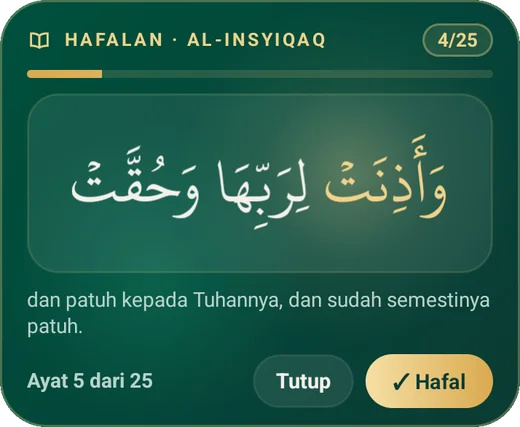
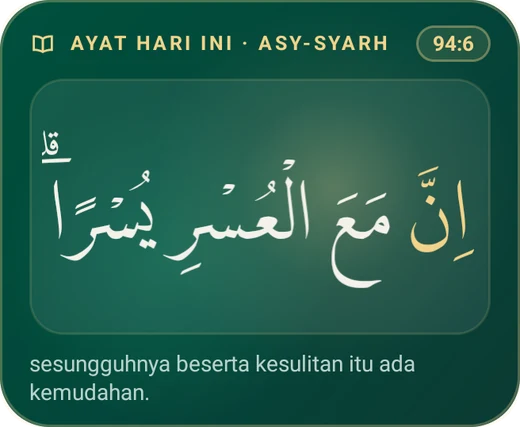
Rilis 1.18.0: muraja'ah, cadangan otomatis, pencarian, zakat mal, lencana
- Versi 1.18.0+29 dan catatan rilis gabungan M3-M6
- Pratinjau widget Ayat Harian asli (menggantikan placeholder)
- Mode gelap (M7) dihapus dari roadmap atas keputusan pengguna; semua fase
  M0-M6 selesai

diff --git a/docs/ROADMAP.md b/docs/ROADMAP.md
@@ -1,11 +1,12 @@
-# Peta Jalan Bilal+ (M0 - M7)
+# Peta Jalan Bilal+ (M0 - M6)
 
 Rencana 11 fitur berikutnya, dikerjakan **per fase (milestone)**. Satu fase
 selesai (diuji, dicek di emulator, di-commit, diberi catatan rilis & tag)
 sebelum fase berikutnya dimulai.
 
-> Status per **31 Oktober 2026** · versi saat ini **1.15.0+26** · skema
-> database **v9** · baseline analyzer **57 isu** · semua tes lulus.
+> Status per **1 November 2026** · **semua fase M0-M6 selesai** · versi
+> **1.18.0+29** · skema database **v11** · baseline analyzer **56 isu** ·
+> semua tes lulus. **Mode gelap (M7) dibatalkan** atas keputusan pengguna.
 
 ## Ringkasan & urutan
 
@@ -18,11 +19,10 @@ berisiko/menyeluruh di akhir.
 | **M0** | Fondasi bersama | infrastruktur pengingat, pengaturan, deep link | kecil | digabung ke M1 |
 | **M1** | Paket cepat | #1 Muhasabah malam · #6 Waktu penting · #8 Ayat harian | kecil-sedang | 1.16.0 |
 | **M2** | Kebiasaan & kewajiban | #3 Pengingat sunnah hijriah · #4 Hutang sholat | sedang | 1.17.0 |
-| **M3** | Hafalan lanjutan | #2 Muraja'ah (pengulangan terjadwal) | sedang | 1.18.0 |
-| **M4** | Keamanan data | #5 Cadangan otomatis | sedang (ada spike) | 1.18.x / 1.19.0 |
-| **M5** | Cari & hitung | #9 Pencarian global · #11 Kalkulator zakat mal | sedang | 1.19.0 |
-| **M6** | Motivasi | #7 Lencana & pencapaian | sedang | 1.20.0 |
-| **M7** | Tampilan | #10 Mode gelap | besar | 1.21.0 |
+| **M3** | Hafalan lanjutan | #2 Muraja'ah (pengulangan terjadwal) | sedang | 1.18.0 (digabung) |
+| **M4** | Keamanan data | #5 Cadangan otomatis | sedang (ada spike) | 1.18.0 (digabung) |
+| **M5** | Cari & hitung | #9 Pencarian global · #11 Kalkulator zakat mal | sedang | 1.18.0 (digabung) |
+| **M6** | Motivasi | #7 Lencana & pencapaian | sedang | 1.18.0 (digabung) |
 
 Nomor versi hanya usulan; ditetapkan saat commit mengikuti aturan versi
 (angka terakhir untuk perbaikan & fitur kecil, angka tengah bila banyak
@@ -366,27 +366,6 @@ atau perbandingan; teks mengingatkan niat. Diverifikasi di emulator.
 
 ---
 
-## M7 - Mode gelap (#10) → usulan 1.21.0
-
-**Fase terbesar & paling menyeluruh** - banyak warna ditulis langsung
-(`Color(0xFF...)`) di hampir semua halaman.
-
-- [ ] **Desain token warna** (`ThemeExtension`): latar, kartu, teks, garis,
-      aksen; pemetaan dari warna krem/amber saat ini.
-- [ ] **Migrasi bertahap per area** (tiap area diuji sendiri): komponen
-      bersama → Beranda → Ibadah → Laporan → Qur'an (mushaf tetap tema
-      kertas bila dipilih) → sisa halaman.
-- [ ] Pilihan **Ikuti sistem / Terang / Gelap** di Pengaturan.
-- [ ] Widget layar utama sudah gelap-hijau; kartu jadwal (langit) tidak
-      berubah.
-- [ ] Ekspor laporan **tetap latar krem** (gambar/PDF dibaca di mana pun).
-- [ ] Tes: tangkapan golden/visual untuk halaman utama di dua tema.
-
-**Keputusan:** warna mushaf dalam mode gelap (tema kertas vs gelap), dan
-apakah fase ini dipecah jadi **M7a/M7b** (komponen+Beranda+Ibadah dulu).
-
----
-
 ## Backlog / tidak dijadwalkan
 
 - **Pola tidur untuk ibadah.** Konsep: catat jam tidur/bangun & qailulah,
@@ -408,18 +387,20 @@ apakah fase ini dipecah jadi **M7a/M7b** (komponen+Beranda+Ibadah dulu).
 | Penjadwalan adzan terganggu refaktor (M0) | tes menjaga perilaku lama; uji di HP asli sebelum rilis |
 | Perhitungan waktu (sepertiga malam, Dhuha) beda di lintang tinggi | uji beberapa lokasi; tampilkan "tidak tersedia" bila malam tak wajar |
 | Dalil keliru | verifikasi tiap nomor & matan ke kitab di aplikasi; ragu → tidak ditulis |
-| Mode gelap menyentuh semua layar | fase terakhir, bertahap, dengan tes visual |
 | APK membesar (sudah +4 MB karena paket PDF) | pantau ukuran tiap rilis; hindari paket baru bila tidak perlu |
 
 ## Riwayat fase
 
 | Fase | Status | Rilis | Tanggal |
 |---|---|---|---|
-| M0 Fondasi | selesai (belum dirilis) | 1.16.0 | 2026-10-31 |
-| M1 Paket cepat | selesai (belum dirilis) | 1.16.0 | 2026-10-31 |
-| M2 Kebiasaan & kewajiban | selesai (belum dirilis) | 1.17.0 | 2026-11-01 |
-| M3 Hafalan lanjutan | selesai (belum dirilis) | - | 2026-11-01 |
-| M4 Keamanan data | selesai (belum dirilis) | - | 2026-11-01 |
-| M5 Cari & hitung | selesai (belum dirilis) | - | 2026-11-01 |
-| M6 Lencana | selesai (belum dirilis) | - | 2026-11-01 |
-| M7 Mode gelap | belum | - | - |
+| M0 Fondasi | dirilis | 1.16.0 | 2026-10-31 |
+| M1 Paket cepat | dirilis | 1.16.0 | 2026-10-31 |
+| M2 Kebiasaan & kewajiban | dirilis | 1.17.0 | 2026-11-01 |
+| M3 Hafalan lanjutan | dirilis | 1.18.0 | 2026-11-01 |
+| M4 Keamanan data | dirilis | 1.18.0 | 2026-11-01 |
+| M5 Cari & hitung | dirilis | 1.18.0 | 2026-11-01 |
+| M6 Lencana | dirilis | 1.18.0 | 2026-11-01 |
+| ~~M7 Mode gelap~~ | dibatalkan (keputusan pengguna) | - | 2026-11-01 |
+
+"Dirilis" = sudah di-commit, diberi catatan rilis & tag; unggah ke toko
+dilakukan manual lewat `tool/release.sh` / `docs/RELEASING.md`.

diff --git a/CHANGELOG.md b/CHANGELOG.md
@@ -4,6 +4,48 @@ Aturan nomor versi: angka terakhir untuk perbaikan & fitur kecil, angka
 tengah untuk banyak fitur baru sekaligus, angka pertama hanya bila perlu
 pembaruan wajib. Angka di belakang `+` adalah nomor build (selalu naik).
 
+## 1.18.0 (build 29) · 1 November 2026
+
+**Muraja'ah hafalan**
+- Hafalan yang sudah kamu tandai diulang berjarak: **1, 3, 7, 14, lalu 30
+  hari**. Ayat berurutan dikelompokkan otomatis menjadi unit (maks. 10
+  ayat). Nilai tiap unit **Lancar / Ragu / Lupa** - yang ragu atau lupa
+  muncul lebih cepat.
+- Kartu **Muraja'ah hari ini** di menu Hafalan, sesi mengulang (ayat
+  disembunyikan dulu, lalu diperiksa), dan **kuis sambung ayat** dari
+  hafalanmu.
+- Pengingat muraja'ah (mati bawaan), jumlahnya tampil di widget Hafalan, dan
+  laporan harian mengingatkan bila ada yang jatuh tempo.
+
+**Cadangan otomatis**
+- Pilih folder (mis. Documents) di halaman Cadangan Data: aplikasi
+  mencadangkan sendiri **tiap pekan** saat dibuka dan menyimpan 5 salinan
+  terakhir. Tetap ada walau aplikasi dihapus, tanpa akun.
+- **Pulihkan dari folder**: pilih salinan dari daftar. Bila izin folder
+  hilang atau penyimpanan gagal, muncul pesan yang jelas.
+
+**Cari di semua tempat**
+- Bilah **Cari** di Beranda (dan menu Lainnya): satu kolom untuk Al-Qur'an,
+  hadits, do'a, dan Asmaul Husna - hasil dikelompokkan, kata yang dicari
+  disorot, ketuk untuk membuka tempat aslinya. Bisa juga mengetik rujukan
+  seperti `2:255`. Riwayat pencarian hanya di perangkatmu.
+
+**Zakat mal & penghasilan**
+- Kalkulator baru (menu Lainnya -> Zakat Mal): nisab 85 gram emas, tarif
+  2,5%, zakat mal dan zakat penghasilan, harga emas diisi sendiri. Hasil
+  bisa dibagikan sebagai gambar. Disertai dalil dan catatan bahwa ini bukan
+  fatwa.
+
+**Pencapaian**
+- 12 **lencana** yang dihitung dari catatanmu (hari terjaga beruntun, Subuh
+  di awal waktu, jama'ah, Jumat penuh, tilawah, khatam, hafalan sejuz,
+  Ramadan penuh, hutang sholat lunas). Hanya untukmu - tanpa peringkat;
+  berbagi gambar sepenuhnya pilihan.
+
+**Perbaikan**
+- Gambar pratinjau widget **Ayat Harian** di daftar widget kini sesuai
+  tampilan aslinya.
+
 ## 1.17.0 (build 28) · 1 November 2026
 
 **Pengingat puasa sunnah**
